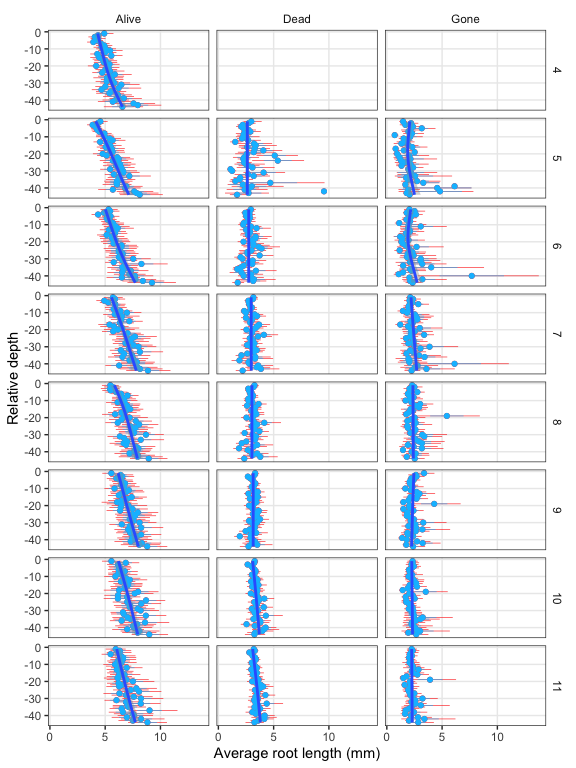
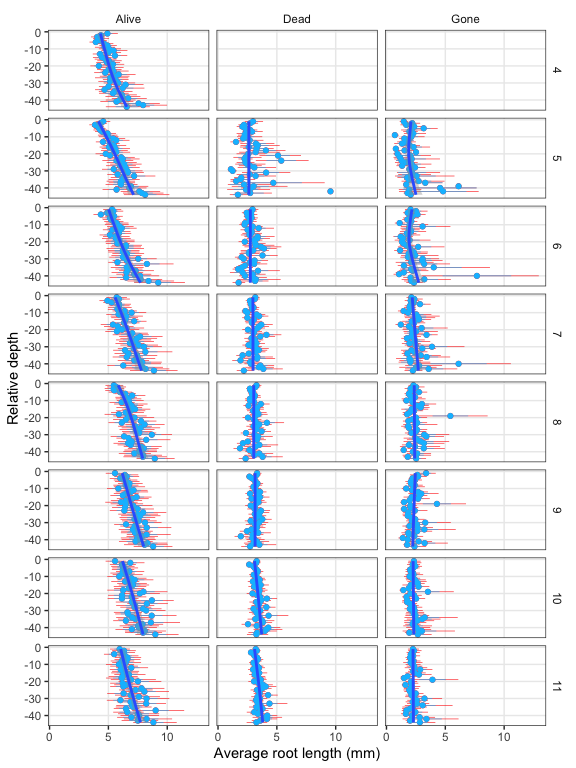
Update with "final" corrected roots data.

diff --git a/production_turnover.md b/production_turnover.md
@@ -81,7 +81,7 @@ Number of new root IDs since initiation in April
 
 April roots: 5409
 
-New roots: 8911
+New roots: 8916
 
 That’s more new root IDs than I thought there would be.
 
@@ -105,16 +105,16 @@ That’s more new root IDs than I thought there would be.
     ## # A tibble: 86,629 x 38
     ##    obs_ID root_ID SampleId RootName  Tube Location Date        Time Session
     ##    <chr>  <chr>   <chr>    <chr>    <dbl>    <dbl> <date>     <dbl>   <dbl>
-    ##  1 1_1_1… 1_1_R1  BRUROOT… R1           1        1 2020-04-21 94911       1
-    ##  2 1_1_1… 1_1_R2  BRUROOT… R2           1        1 2020-04-21 94911       1
-    ##  3 1_1_2… 1_2_R1  BRUROOT… R1           1        2 2020-04-21 94925       1
-    ##  4 1_1_2… 1_2_R2  BRUROOT… R2           1        2 2020-04-21 94925       1
-    ##  5 1_1_2… 1_2_R3  BRUROOT… R3           1        2 2020-04-21 94925       1
-    ##  6 1_1_2… 1_2_R4  BRUROOT… R4           1        2 2020-04-21 94925       1
-    ##  7 1_1_2… 1_2_R5  BRUROOT… R5           1        2 2020-04-21 94925       1
-    ##  8 1_1_2… 1_2_R6  BRUROOT… R6           1        2 2020-04-21 94925       1
-    ##  9 1_1_2… 1_2_R7  BRUROOT… R7           1        2 2020-04-21 94925       1
-    ## 10 1_1_2… 1_2_R8  BRUROOT… R8           1        2 2020-04-21 94925       1
+    ##  1 1_1_1… 1_1_R1… BRUROOT… R1           1        1 2020-04-21 94911       1
+    ##  2 1_1_1… 1_1_R2… BRUROOT… R2           1        1 2020-04-21 94911       1
+    ##  3 1_1_2… 1_2_R1… BRUROOT… R1           1        2 2020-04-21 94925       1
+    ##  4 1_1_2… 1_2_R2… BRUROOT… R2           1        2 2020-04-21 94925       1
+    ##  5 1_1_2… 1_2_R3… BRUROOT… R3           1        2 2020-04-21 94925       1
+    ##  6 1_1_2… 1_2_R4… BRUROOT… R4           1        2 2020-04-21 94925       1
+    ##  7 1_1_2… 1_2_R5… BRUROOT… R5           1        2 2020-04-21 94925       1
+    ##  8 1_1_2… 1_2_R6… BRUROOT… R6           1        2 2020-04-21 94925       1
+    ##  9 1_1_2… 1_2_R7… BRUROOT… R7           1        2 2020-04-21 94925       1
+    ## 10 1_1_2… 1_2_R8… BRUROOT… R8           1        2 2020-04-21 94925       1
     ## # … with 86,619 more rows, and 29 more variables: DataGatherer <chr>,
     ## #   BirthSession <dbl>, DeathSession <dbl>, TotLength_mm <dbl>,
     ## #   TotProjArea_mm2 <dbl>, TotSurfArea_mm2 <dbl>, TotAvgDiam_mm <dbl>,
@@ -203,20 +203,20 @@ gain_depth <- gain_depth %>%
 gain_depth %>% summary()
 ```
 
-    ##       Tube         Location         Month           name          
-    ##  Min.   : 1.0   Min.   : 1.00   Min.   : 5.00   Length:16255      
-    ##  1st Qu.: 7.0   1st Qu.:10.00   1st Qu.: 6.00   Class :character  
-    ##  Median :12.0   Median :21.00   Median : 8.00   Mode  :character  
-    ##  Mean   :12.4   Mean   :21.39   Mean   : 8.04                     
-    ##  3rd Qu.:18.0   3rd Qu.:32.00   3rd Qu.:10.00                     
-    ##  Max.   :24.0   Max.   :44.00   Max.   :11.00                     
-    ##   treatment          root_growth         new_roots          gross_gain       
-    ##  Length:16255       Min.   : 0.00000   Min.   :  0.0000   Min.   :  0.00000  
-    ##  Class :character   1st Qu.: 0.00000   1st Qu.:  0.0000   1st Qu.:  0.03277  
-    ##  Mode  :character   Median : 0.04462   Median :  0.0422   Median :  0.38890  
-    ##                     Mean   : 1.20244   Mean   :  2.2153   Mean   :  3.41773  
-    ##                     3rd Qu.: 0.61790   3rd Qu.:  0.8222   3rd Qu.:  2.09355  
-    ##                     Max.   :55.05780   Max.   :191.7091   Max.   :195.50220
+    ##       Tube         Location         Month            name          
+    ##  Min.   : 1.0   Min.   : 1.00   Min.   : 5.000   Length:16252      
+    ##  1st Qu.: 7.0   1st Qu.:10.00   1st Qu.: 6.000   Class :character  
+    ##  Median :12.0   Median :21.00   Median : 8.000   Mode  :character  
+    ##  Mean   :12.4   Mean   :21.39   Mean   : 8.039                     
+    ##  3rd Qu.:18.0   3rd Qu.:32.00   3rd Qu.:10.000                     
+    ##  Max.   :24.0   Max.   :44.00   Max.   :11.000                     
+    ##   treatment          root_growth         new_roots           gross_gain      
+    ##  Length:16252       Min.   : 0.00000   Min.   :  0.00000   Min.   :  0.0000  
+    ##  Class :character   1st Qu.: 0.00000   1st Qu.:  0.00000   1st Qu.:  0.0327  
+    ##  Mode  :character   Median : 0.04447   Median :  0.04245   Median :  0.3885  
+    ##                     Mean   : 1.20122   Mean   :  2.21664   Mean   :  3.4179  
+    ##                     3rd Qu.: 0.61790   3rd Qu.:  0.82409   3rd Qu.:  2.0940  
+    ##                     Max.   :55.05780   Max.   :191.70910   Max.   :195.5022
 
 ``` r
 # gross loss = loss in 'Alive' + 'Dead' + 'Gone' 
@@ -250,18 +250,18 @@ summary(loss_depth)
 ```
 
     ##       Tube          Location         Month            name          
-    ##  Min.   : 1.00   Min.   : 1.00   Min.   : 5.000   Length:11628      
+    ##  Min.   : 1.00   Min.   : 1.00   Min.   : 5.000   Length:11631      
     ##  1st Qu.: 7.00   1st Qu.: 8.00   1st Qu.: 6.000   Class :character  
     ##  Median :12.00   Median :19.00   Median : 8.000   Mode  :character  
-    ##  Mean   :12.57   Mean   :19.83   Mean   : 7.987                     
+    ##  Mean   :12.57   Mean   :19.82   Mean   : 7.988                     
     ##  3rd Qu.:18.00   3rd Qu.:30.00   3rd Qu.:10.000                     
     ##  Max.   :24.00   Max.   :44.00   Max.   :11.000                     
     ##   treatment            dg_roots         root_loss         gross_loss      
-    ##  Length:11628       Min.   : 0.0012   Min.   : 0.0000   Min.   :  0.0012  
+    ##  Length:11631       Min.   : 0.0012   Min.   : 0.0000   Min.   :  0.0012  
     ##  Class :character   1st Qu.: 0.2394   1st Qu.: 0.0000   1st Qu.:  0.3794  
-    ##  Mode  :character   Median : 0.6838   Median : 0.1011   Median :  1.0079  
-    ##                     Mean   : 3.2680   Mean   : 1.8182   Mean   :  5.0862  
-    ##                     3rd Qu.: 2.7437   3rd Qu.: 1.2390   3rd Qu.:  5.2337  
+    ##  Mode  :character   Median : 0.6838   Median : 0.1005   Median :  1.0077  
+    ##                     Mean   : 3.2679   Mean   : 1.8155   Mean   :  5.0834  
+    ##                     3rd Qu.: 2.7424   3rd Qu.: 1.2393   3rd Qu.:  5.2317  
     ##                     Max.   :94.6837   Max.   :63.2020   Max.   :140.3168
 
 ``` r
@@ -306,8 +306,8 @@ df1
     ##  2     1        1     5 control           11.3      NA         NA        NA  
     ##  3     1        1     6 control           62.3      37.7        1.78     47.2
     ##  4     1        1     7 control           76.2      37.9       24.0      76.2
-    ##  5     1        1     8 control           78.5       7.59      16.7      67.1
-    ##  6     1        1     9 control           36.6      11.6       53.6      36.6
+    ##  5     1        1     8 control           67.1       9.61      13.8      72.1
+    ##  6     1        1     9 control           36.6      11.6       53.6      25.2
     ##  7     1        1    10 control           65.6       9.52      23.3      22.8
     ##  8     1        1    11 control           77.7      18.6        6.40     77.7
     ##  9     1        2     4 control           27.0      NA         NA        NA  
@@ -332,7 +332,7 @@ ggplot(df1, aes(TotLength_mm, calc_net)) +
 with(df1, cor(calc_net, TotLength_mm, use = "complete.obs"))
 ```
 
-    ## [1] 0.9977771
+    ## [1] 0.9977984
 
 ![](production_turnover_files/figure-gfm/model%20gross%20change-1.png)<!-- -->
 
@@ -344,24 +344,24 @@ with(df1, cor(calc_net, TotLength_mm, use = "complete.obs"))
     ## 
     ## Scaled residuals: 
     ##     Min      1Q  Median      3Q     Max 
-    ## -3.3366 -0.6148 -0.1965  0.4938  4.2910 
+    ## -3.3418 -0.6145 -0.1949  0.4957  4.2912 
     ## 
     ## Random effects:
     ##  Groups   Name        Variance Std.Dev.
-    ##  Location (Intercept)  274.9   16.58   
-    ##  Tube     (Intercept)  745.0   27.30   
-    ##  Residual             1237.7   35.18   
+    ##  Location (Intercept)  275.7   16.60   
+    ##  Tube     (Intercept)  743.7   27.27   
+    ##  Residual             1237.5   35.18   
     ## Number of obs: 1007, groups:  Location, 44; Tube, 24
     ## 
     ## Fixed effects:
     ##                      Estimate Std. Error t value
-    ## (Intercept)           44.8324    10.1592   4.413
-    ## clippedyes            -5.1014    13.9212  -0.366
-    ## clippedyes:manureyes   0.9263    13.9121   0.067
+    ## (Intercept)           44.8500    10.1518   4.418
+    ## clippedyes            -5.0984    13.9091  -0.367
+    ## clippedyes:manureyes   0.8722    13.9000   0.063
     ## 
     ## Correlation of Fixed Effects:
     ##             (Intr) clppdy
-    ## clippedyes  -0.686       
+    ## clippedyes  -0.685       
     ## clppdys:mnr  0.000 -0.500
     ## fit warnings:
     ## fixed-effect model matrix is rank deficient so dropping 1 column / coefficient
@@ -370,24 +370,24 @@ with(df1, cor(calc_net, TotLength_mm, use = "complete.obs"))
     ## Formula: gg_sum ~ clipped + clipped:manure + (1 | Location) + (1 | Tube)
     ##    Data: d
     ## 
-    ## REML criterion at convergence: 10207.4
+    ## REML criterion at convergence: 10207.8
     ## 
     ## Scaled residuals: 
     ##     Min      1Q  Median      3Q     Max 
-    ## -3.8905 -0.6180 -0.1598  0.4761  5.2857 
+    ## -3.8898 -0.6181 -0.1600  0.4757  5.2847 
     ## 
     ## Random effects:
     ##  Groups   Name        Variance Std.Dev.
-    ##  Location (Intercept)  235.6   15.35   
-    ##  Tube     (Intercept)  933.3   30.55   
-    ##  Residual             1299.2   36.04   
+    ##  Location (Intercept)  236.3   15.37   
+    ##  Tube     (Intercept)  933.7   30.56   
+    ##  Residual             1299.6   36.05   
     ## Number of obs: 1007, groups:  Location, 44; Tube, 24
     ## 
     ## Fixed effects:
     ##                      Estimate Std. Error t value
-    ## (Intercept)            54.924     11.227   4.892
-    ## clippedyes             -8.539     15.532  -0.550
-    ## clippedyes:manureyes   -2.092     15.524  -0.135
+    ## (Intercept)            54.897     11.230   4.888
+    ## clippedyes             -8.502     15.536  -0.547
+    ## clippedyes:manureyes   -2.107     15.527  -0.136
     ## 
     ## Correlation of Fixed Effects:
     ##             (Intr) clppdy
